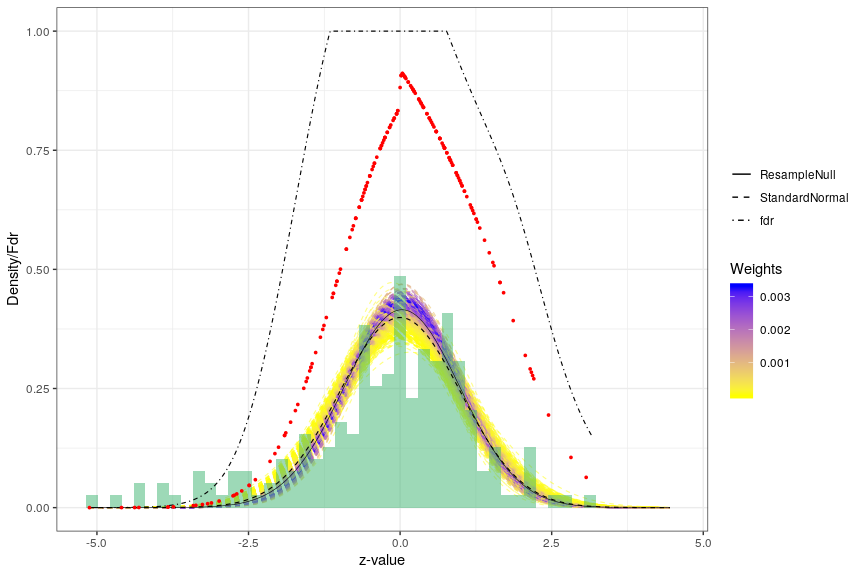
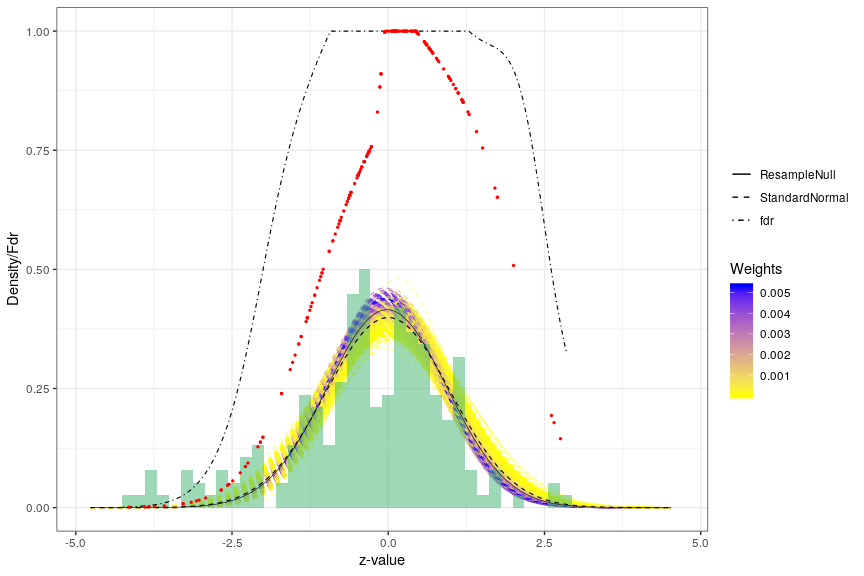
Changed all names to reconsi and collapsed null

diff --git a/README.md b/README.md
@@ -2,7 +2,7 @@
 Introduction
 ============
 
-Dependence between test statistic is known to render statistical inference more variable. This is caused by the random nature of the null distribution under dependence. The aim of this *reconsi* pacakage is to provide Resampling RAndom Null distributions for Simultaneous Inference to estimate these random functions for improved inference. It can reduce the variability of the false discovery proportion, while increasing the power. Any type of test statistic can be supplied, only Wilcoxon rank sum test and two sample t-test are natively implemented. Both **permutations** and **bootstrapping** are implemented.
+Dependence between test statistic is known to render statistical inference more variable. This is caused by the variability of the estimator of the null distribution under dependence. The aim of this *reconsi* pacakage is to provide REsampling COllapsed Null distributions for Simultaneous Inference to estimate these null density functions for improved inference. It can reduce the variability of the false discovery proportion, while increasing the power. Any type of test statistic can be supplied, only Wilcoxon rank sum test and two sample t-test are natively implemented. Both **permutations** and **bootstrapping** are implemented.
 
 A short tutorial is given here, more detailed instructions can be found in the vignette.
 
@@ -34,7 +34,7 @@ n = 50
 x = rep(c(0, 1), each = n/2)
 mat = cbind(matrix(rnorm(n * p/10, mean = 5 + x), n, p/10), matrix(rnorm(n * 
     p * 9/10, mean = 5), n, p * 9/10))
-# Provide just the matrix and grouping factor, and test using the random
+# Provide just the matrix and grouping factor, and test using the collapsed
 # null
 fdrRes = reconsi(mat, x)
 # The estimated tail-area false discovery rates.
@@ -47,7 +47,7 @@ The method provides an estimate of the proportion of true null hypothesis, which
 fdrRes$p0
 ```
 
-    ## [1] 0.88195
+    ## [1] 0.9262337
 
 The result of the procedure can be represented graphically as follows:
 
@@ -72,7 +72,7 @@ fdrResLm = reconsi(mat, x, B = 50, test = function(x, y) {
 Case study
 ----------
 
-We illustrate the package using an application from microbiology. The species composition of a community of microorganisms can be determined through sequencing. However, this only yields compositional information, and knowledge of the population size can be acquired by cell counting through flow cytometry. Next, the obtained species compositions can multiplied by the total population size to yield approximate absolute cell counts per species. Evidently, this introduces strong correlation between the tests due to the common factor. In other words: random noise in the estimation of the total cell counts will affect all hypotheses. Therefore, we employ permutations to estimate an experiment-specific random null distribution, that will account for this dependence.
+We illustrate the package using an application from microbiology. The species composition of a community of microorganisms can be determined through sequencing. However, this only yields compositional information, and knowledge of the population size can be acquired by cell counting through flow cytometry. Next, the obtained species compositions can multiplied by the total population size to yield approximate absolute cell counts per species. Evidently, this introduces strong correlation between the tests due to the common factor. In other words: random noise in the estimation of the total cell counts will affect all hypotheses. Therefore, we employ permutations to estimate the collapsed null distribution, that will account for this dependence.
 
 The dataset used is taken from Vandeputte *et al.*, 2017 (see [manuscript](https://www.ncbi.nlm.nih.gov/pubmed/29143816)), a study on gut microbiome in healthy and Crohn's disease patients. The test looks for differences in absolute abundance between healthy and diseased patients. It relies on the [phyloseq](https://bioconductor.org/packages/release/bioc/html/phyloseq.html) package, which is the preferred way to interact with our machinery for microbiome data.
 
@@ -88,7 +88,7 @@ quantile(FdrVDP)
 ```
 
     ##           0%          25%          50%          75%         100% 
-    ## 0.0000000000 0.0003678914 0.2490903062 0.7022028119 0.8779864469
+    ## 1.939116e-23 3.897312e-04 2.213271e-01 7.506625e-01 9.177288e-01
 
 An approximation of the correlation matrix of the test statistics can be drawn as follows:
 
@@ -98,4 +98,4 @@ plotCperm(testVanDePutte$statsPerm)
 
 ![](README_figs/README-approxCor-1.png)
 
-This is the correlation matrix of binned test statistics, whereby yellow indicates negative correlations between bin counts and blue positive correlations. Each pixel represents a combination of two bins. It is clear that counts in the left and right tail are negatively correlated, and bin counts close together are positively correlated. This is a consequence of the random null distribution shifting left and right.
+This is the correlation matrix of binned test statistics, whereby yellow indicates negative correlations between bin counts and blue positive correlations. Each pixel represents a combination of two bins. It is clear that counts in the left and right tail are negatively correlated, and bin counts close together are positively correlated. This is a consequence of the collapsed null distribution being more variable.
